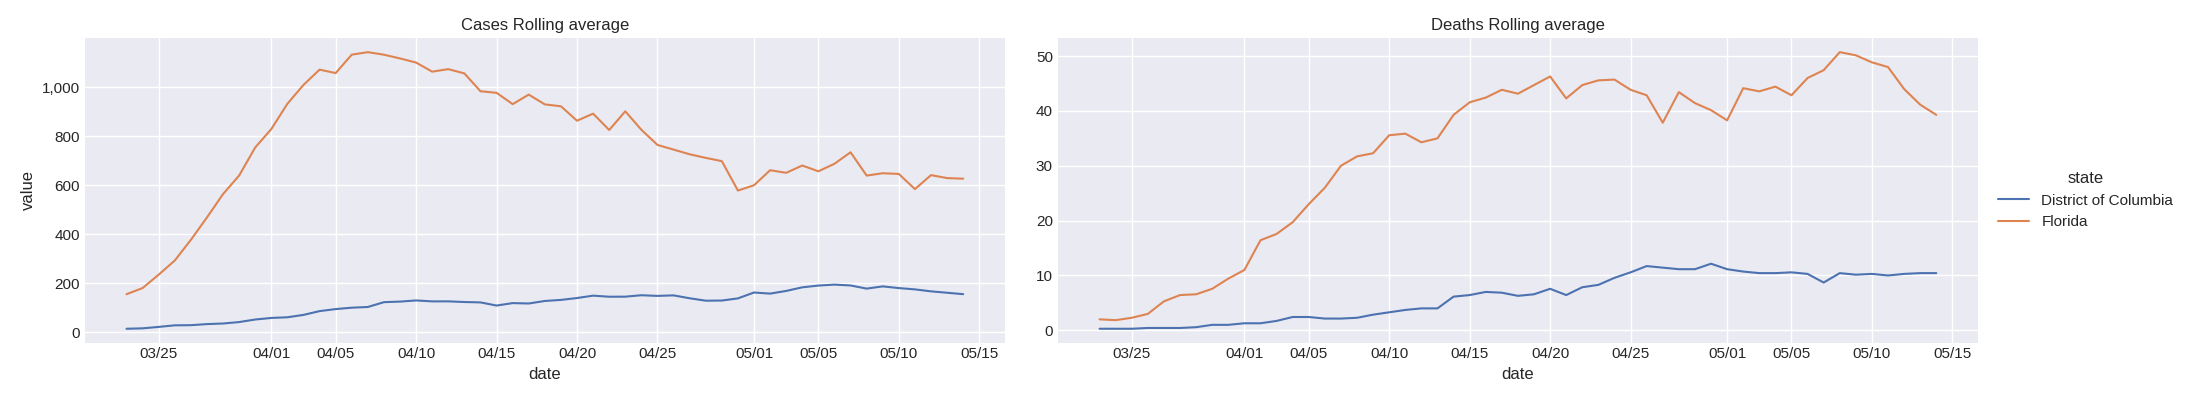
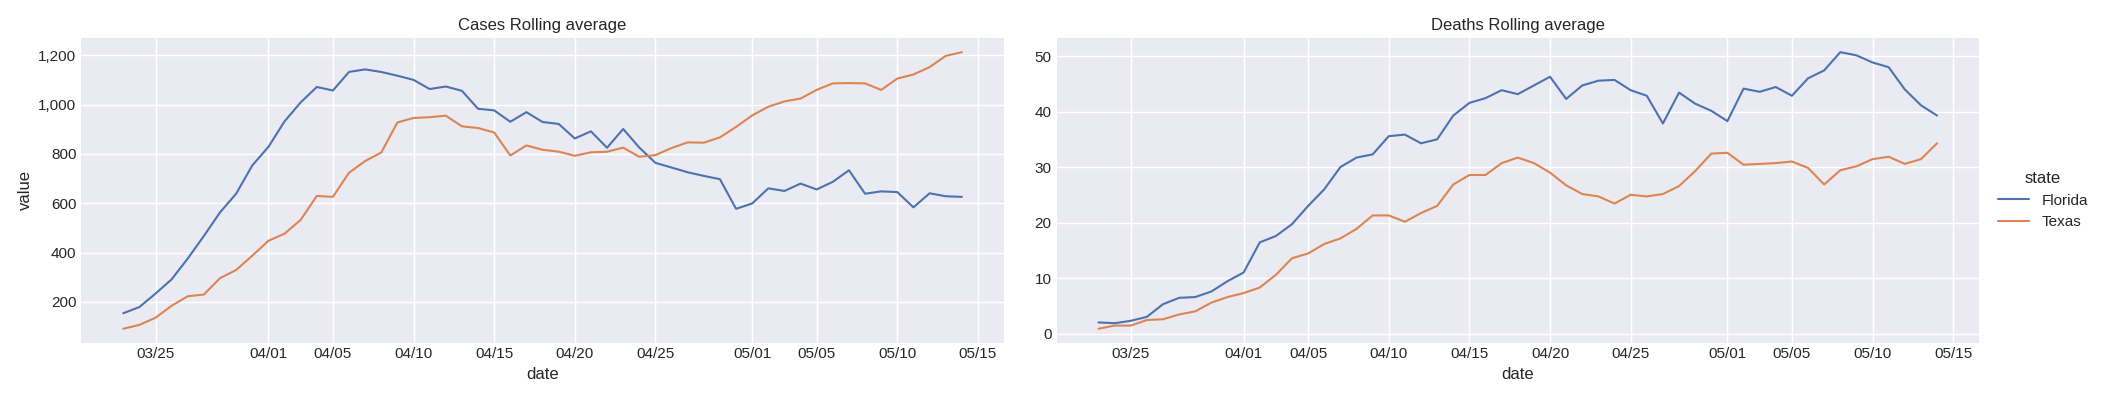
deploy: 9d187a252884ea584c85c1bbb3deaa89a379b75f

diff --git a/covid.py b/covid.py
@@ -38,8 +38,9 @@ def compute(df, states, variables, start_date):
 def read_data():
     states = pd.read_csv("https://raw.githubusercontent.com/nytimes/covid-19-data/master/us-states.csv")
     usa = pd.read_csv("https://raw.githubusercontent.com/nytimes/covid-19-data/master/us.csv")
+    today = pd.read_csv("https://raw.githubusercontent.com/nytimes/covid-19-data/master/live/us-states.csv")
     usa['state'] = "USA"
-    df = pd.concat([states, usa], sort=False)
+    df = pd.concat([states, usa, today], sort=False)
     return df
 
 
@@ -120,7 +121,7 @@ def report_test():
     graph_b(y, states, variables, "graph1", [4,2.5])
 
 
-# In[19]:
+# In[8]:
 
 
 def report_row(df, states, variables, date, filename, dimensions):
@@ -148,7 +149,7 @@ def do_report1():
     report_row(df, s2, v3, dt, "graph5", dim)               
 
 
-# In[10]:
+# In[14]:
 
 
 def do_report2():
@@ -163,7 +164,7 @@ def do_report2():
     report_row(df, s1, v1, dt, "graph1", dim)
 
 
-# In[33]:
+# In[15]:
 
 
 parser = argparse.ArgumentParser(description='Generate COVID graphs')
@@ -174,21 +175,21 @@ parser.add_argument("--vars", nargs="+", type=str)
 args = parser.parse_args()
 
 
-# In[34]:
+# In[17]:
 
 
 df = read_data()
 s1 = args.states
 v1 = args.vars
-dt = "2020-03-15"
+dt = "2020-04-01"
 dim = [4, 2.5]
 report_row(df, s1, v1, dt, args.filename, dim)
 
 
-# In[22]:
+# In[ ]:
 
 
-df
+
 
 
 # In[ ]:
